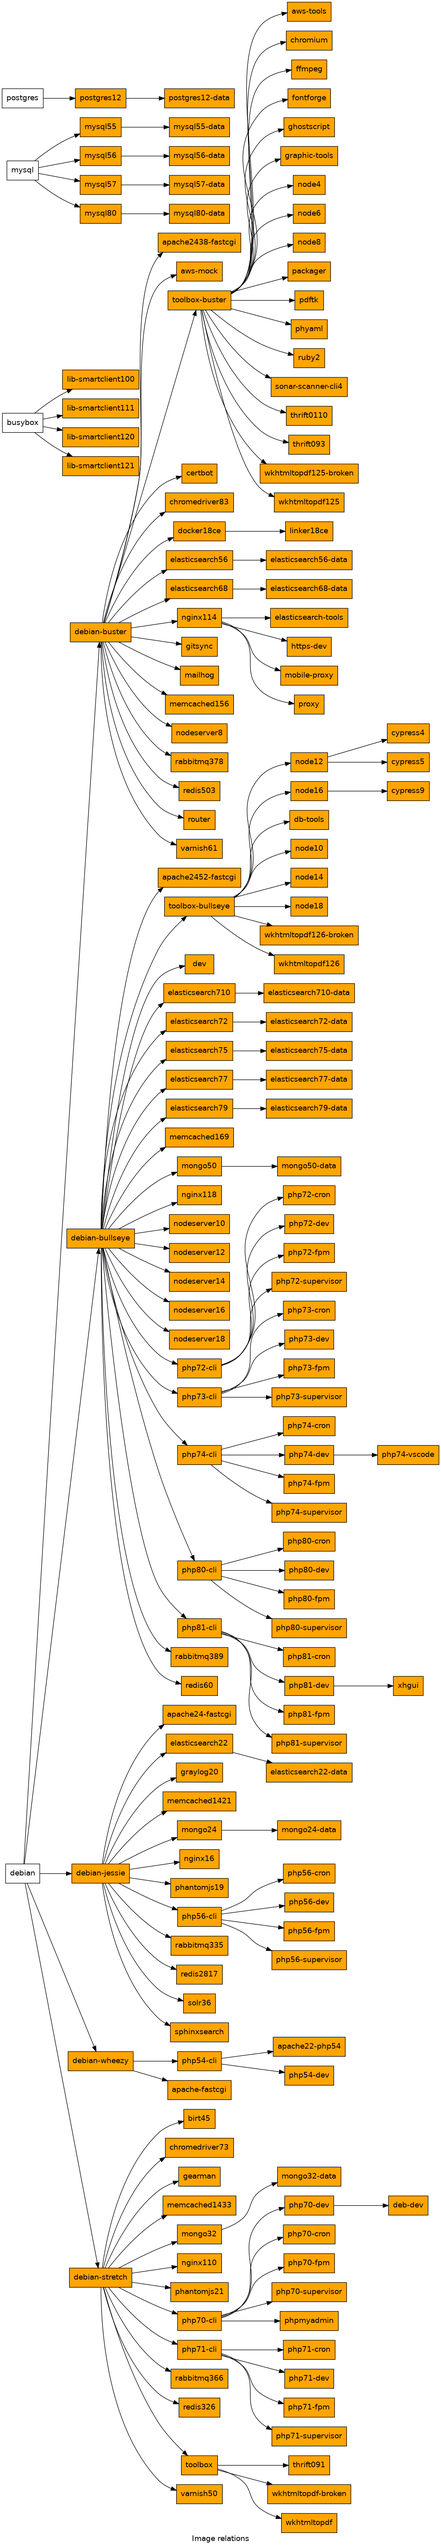
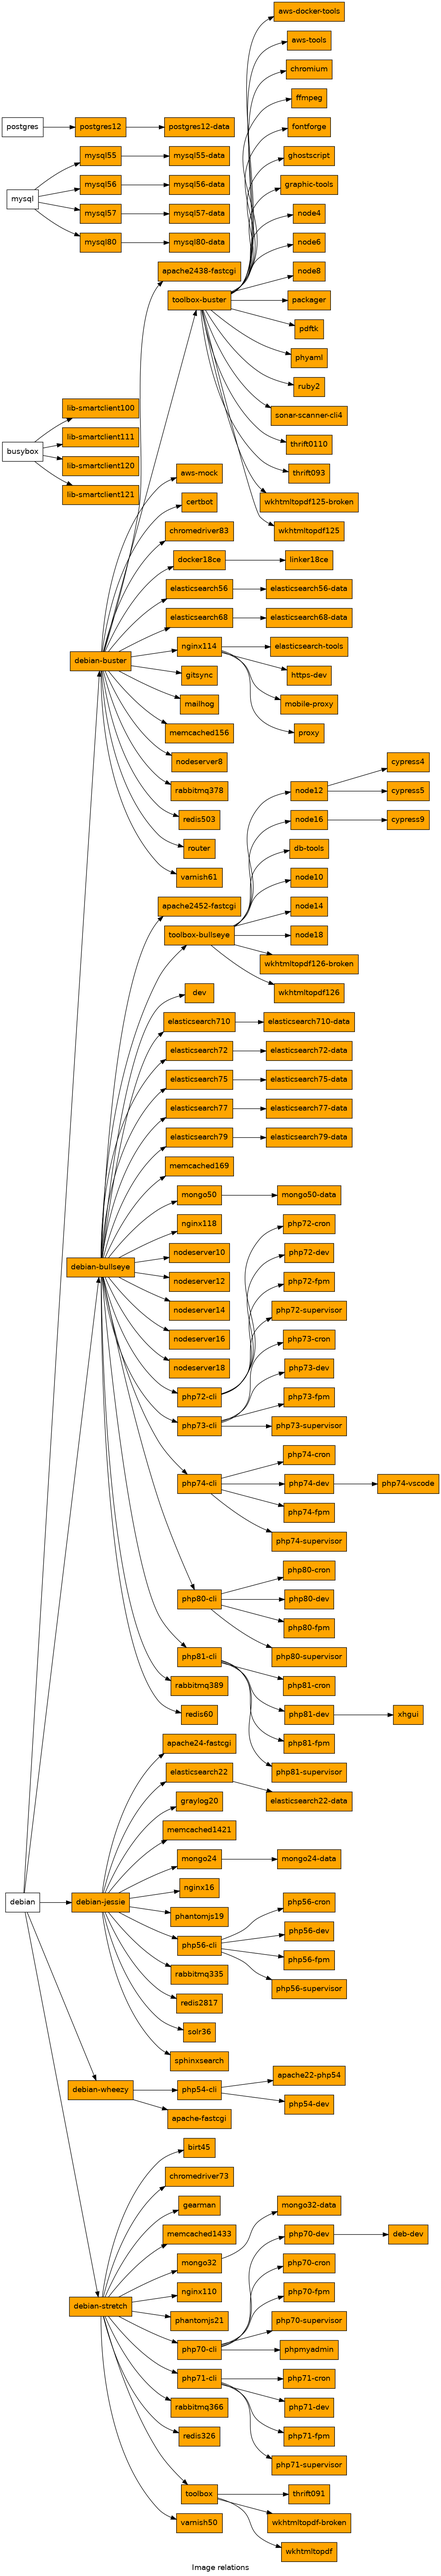
Updated image relations and README

diff --git a/aws-docker-tools/README.md b/aws-docker-tools/README.md
@@ -1,13 +1,14 @@
-## AWS-Tools toolbox
+## AWS-Docker-Tools toolbox
 
 ### Info
 
-This is an image of various AWS cli tools in toolbox format
+This is an image of various AWS cli tools and docker in toolbox format
 
 ### Installed packages
 
 - awscli
 - awsebcli
+- docker
 
 ### Configuration
 
@@ -16,6 +17,7 @@ Available binary paths for export:
 - /usr/local/bin/aws
 - /usr/local/bin/eb
 - /usr/local/bin/ebp
+- /usr/bin/docker
 
 ### Sample configuration
 
@@ -23,10 +25,11 @@ Available binary paths for export:
 version: '2.4'
 services:
   awstools:
-    image: nfqlt/aws-tools
+    image: nfqlt/aws-docker-tools
     volumes:
       - './src:/home/project/src'
       - /tmp
+      - /var/run/docker.sock:/var/run/docker.sock
 
   dev:
     image: nfqlt/php73-dev
